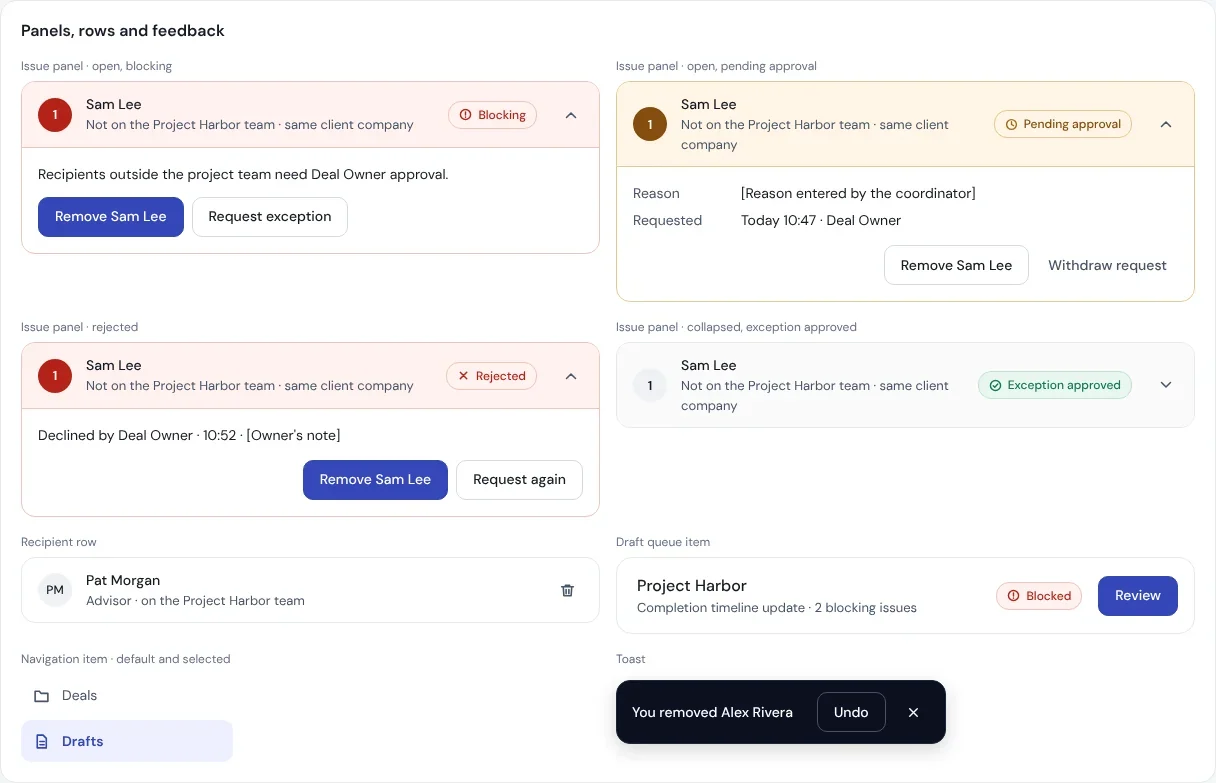
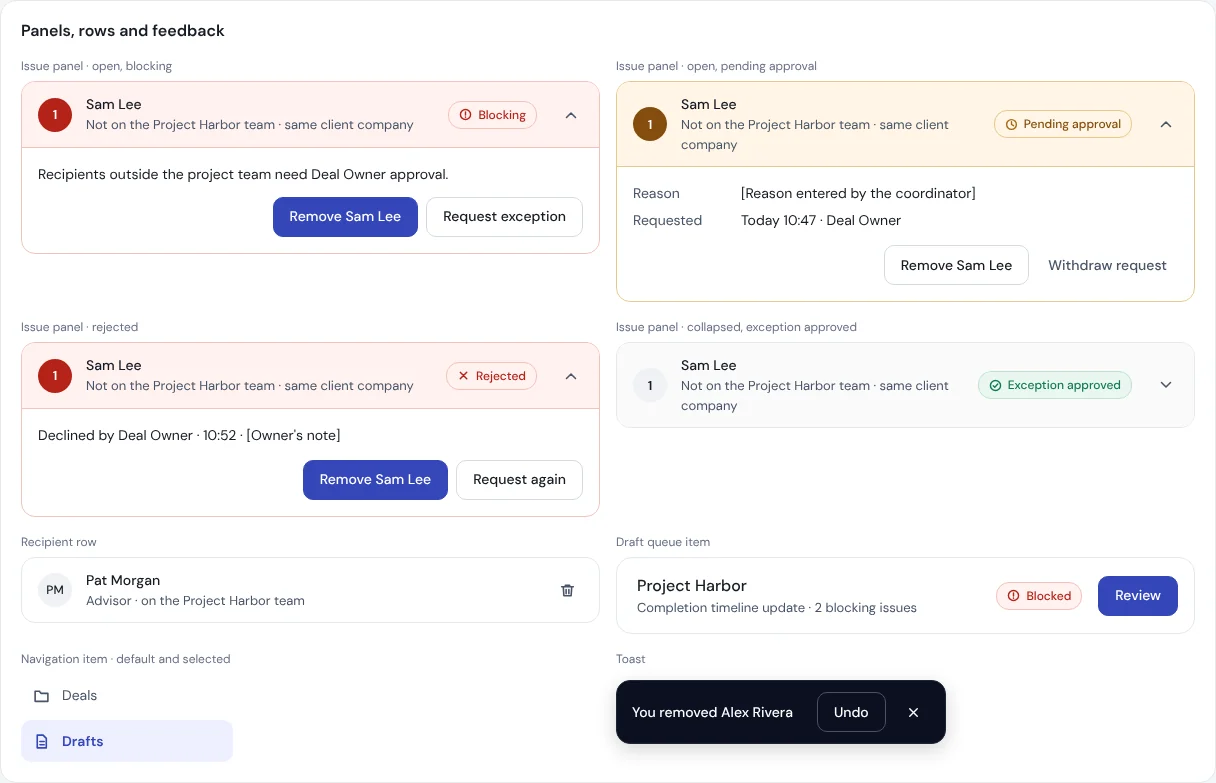
Keep issue panel actions right-aligned when they wrap
In a narrow panel the Remove and Request exception buttons wrapped
under the explanation and fell to the left, unlike the other panels.
They now stay on the right at every width.

- app.css: .issue-row .actions gets margin-left: auto; the narrow-screen
  rule that left-aligned panel actions is removed
- ds-panels.webp recaptured from the updated design reference board

Styling only. No behaviour or business rules changed.

Claude-Session: https://claude.ai/code/session_01MoRrbofVezg8Kdcbs9Z9gd

Changed region(s): [[0.0312, 0.2452, 0.3438, 0.3065], [0.375, 0.2452, 0.4688, 0.3065]]

diff --git a/src/styles/app.css b/src/styles/app.css
@@ -159,6 +159,8 @@ h1 { font-size: 28px; font-weight: 600; line-height: 1.2; letter-spacing: -0.025
 .issue-row { display: flex; align-items: center; flex-wrap: wrap; gap: 12px; }
 .issue-why { flex: 1 1 260px; }
 .actions { display: flex; flex-wrap: wrap; gap: 8px; justify-content: flex-end; }
+/* When the buttons wrap under the explanation they stay on the right, like every other panel. */
+.issue-row .actions { margin-left: auto; }
 .facts { display: grid; grid-template-columns: 96px 1fr; gap: 6px 12px; }
 .facts dt { color: var(--text-secondary); }
 
@@ -266,7 +268,6 @@ h1 { font-size: 28px; font-weight: 600; line-height: 1.2; letter-spacing: -0.025
   .sent-card { padding: 18px 16px; }
   .btn { min-height: 44px; }
   .icon-btn { width: 44px; height: 44px; }
-  .actions { justify-content: flex-start; }
   .toast { left: 12px; right: 12px; bottom: 12px; max-width: none; }
   .toast-text { flex: 1; margin-right: 4px; }
   .overlay { padding: 12px; }
